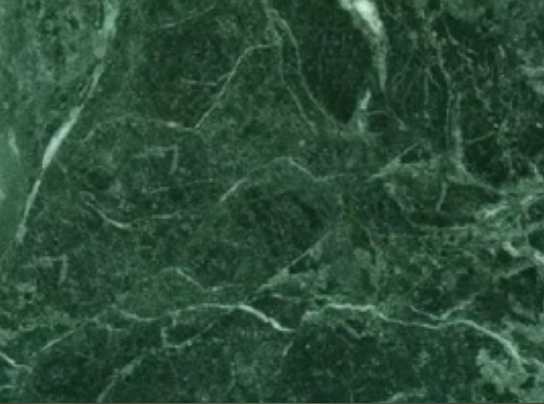
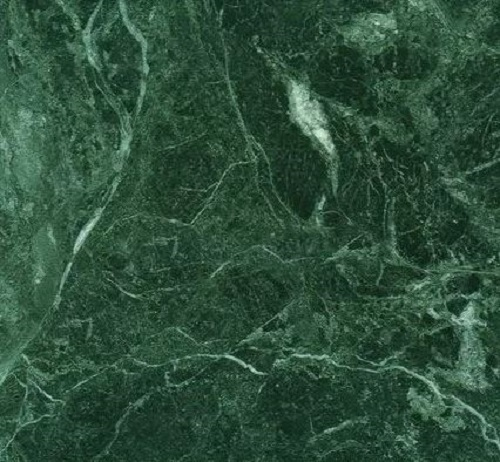
chore: more updates

diff --git a/src/app/components/Footer.tsx b/src/app/components/Footer.tsx
@@ -4,51 +4,54 @@ export function Footer() {
     return (
         <footer className="border-t border-border">
             <div className="max-w-7xl mx-auto px-6 py-12 grid grid-cols-1 md:grid-cols-3 gap-10">
-            <div className="flex flex-col items-center justify-center text-center">
-                <img src="/img/logo.png" alt="samo-enterprises" className="object-cover w-28 h-28" />
-                <p className="text-sm text-muted-foreground leading-relaxed mt-4">
-                Supplying premium natural stone to architects, designers, and homeowners since 2015.
-                </p>
-            </div>
-            <div>
-                <p className="text-xs tracking-widest uppercase text-muted-foreground mb-4" style={{ fontFamily: "'DM Mono', monospace" }}>
-                Collections
-                </p>
-                <ul className="space-y-2">
-                {["Granite", "Marble", "Tiles"].map(cat => (
-                    <li key={cat}>
-                    <Link
-                        to={`/${cat.toLowerCase()}`}
-                        className="text-sm text-foreground hover:text-accent transition-colors"
-                    >
-                        {cat}
+                <div className="flex flex-col items-center justify-center text-center">
+                    <Link to="/" className="flex flex-row items-center justify-between leading-none">
+                        <img src="/img/logo.png" alt="samo-enterprises" className="object-cover w-28 h-28 z-10" />
+                        <img src="/img/tagline.jpg" alt="tagline" className="h-6 -m-6" />
                     </Link>
-                    </li>
-                ))}
-                </ul>
-            </div>
-            <div>
-                <p className="text-xs tracking-widest uppercase text-muted-foreground mb-4" style={{ fontFamily: "'DM Mono', monospace" }}>
-                Contact
-                </p>
-                <address className="text-sm text-foreground not-italic space-y-1">
-                <p>SCO-35, Sagar Enclave</p>
-                <p>Transport Nagar, Jalandhar City, 144012</p>
-                <a href="mailto:contact@samoenterprises.com" className="mt-3 text-muted-foreground block">contact@samoenterprises.com</a>
-                <a href="mailto:info@samoenterprises.com" className="text-muted-foreground block">info@samoenterprises.com</a>
-                <a href="mailto:sales@samoenterprises.com" className="text-muted-foreground block">sales@samoenterprises.com</a>
-                <a href="mailto:samoenterprises3@gmail.com" className="text-muted-foreground block">samoenterprises3@gmail.com</a>
-                <a href="tel:+91 62399 40093" className="mt-3 text-muted-foreground block">+91 62399 40093</a>
-                <a href="tel:+91 62399 50093" className="text-muted-foreground block">+91 62399 50093</a>
-                </address>
-            </div>
+                    <p className="text-sm text-muted-foreground leading-relaxed mt-4">
+                    Supplying premium natural stone to architects, designers, and homeowners since 2015.
+                    </p>
+                </div>
+                <div>
+                    <p className="text-xs tracking-widest uppercase text-muted-foreground mb-4" style={{ fontFamily: "'DM Mono', monospace" }}>
+                    Collections
+                    </p>
+                    <ul className="space-y-2">
+                    {["Granite", "Marble", "Tiles"].map(cat => (
+                        <li key={cat}>
+                        <Link
+                            to={`/${cat.toLowerCase()}`}
+                            className="text-sm text-foreground hover:text-accent transition-colors"
+                        >
+                            {cat}
+                        </Link>
+                        </li>
+                    ))}
+                    </ul>
+                </div>
+                <div>
+                    <p className="text-xs tracking-widest uppercase text-muted-foreground mb-4" style={{ fontFamily: "'DM Mono', monospace" }}>
+                    Contact
+                    </p>
+                    <address className="text-sm text-foreground not-italic space-y-1">
+                    <p>SCO-35, Sagar Enclave</p>
+                    <p>Transport Nagar, Jalandhar City, 144012</p>
+                    <a href="mailto:contact@samoenterprises.com" className="mt-3 text-muted-foreground block">contact@samoenterprises.com</a>
+                    <a href="mailto:info@samoenterprises.com" className="text-muted-foreground block">info@samoenterprises.com</a>
+                    <a href="mailto:sales@samoenterprises.com" className="text-muted-foreground block">sales@samoenterprises.com</a>
+                    <a href="mailto:samoenterprises3@gmail.com" className="text-muted-foreground block">samoenterprises3@gmail.com</a>
+                    <a href="tel:+91 62399 40093" className="mt-3 text-muted-foreground block">+91 62399 40093</a>
+                    <a href="tel:+91 62399 50093" className="text-muted-foreground block">+91 62399 50093</a>
+                    </address>
+                </div>
             </div>
             <div className="border-t border-border">
-            <div className="max-w-7xl mx-auto px-6 py-4 flex justify-between items-center">
-                <p className="text-xs text-muted-foreground" style={{ fontFamily: "'DM Mono', monospace" }}>
-                © 2015 SAMO Enterprises. All rights reserved.
-                </p>
-            </div>
+                <div className="max-w-7xl mx-auto px-6 py-4 flex justify-between items-center">
+                    <p className="text-xs text-muted-foreground" style={{ fontFamily: "'DM Mono', monospace" }}>
+                    © 2015 SAMO Enterprises. All rights reserved.
+                    </p>
+                </div>
             </div>
         </footer>
     )

diff --git a/src/app/components/Header.tsx b/src/app/components/Header.tsx
@@ -27,14 +27,15 @@ export function Header() {
 
     return (
         <header className="border-b border-border sticky top-0 z-40 bg-background">
-            <div className="max-w-7xl mx-auto px-6 py-5 flex items-center justify-between">
+            <div className="max-w-7xl mx-auto flex items-center justify-between">
                 {/* Logo */}
-                <Link to="/" className="flex flex-col leading-none">
-                <img src="/img/logo.png" alt="samo-enterprises" className="object-cover w-24 h-24" />
+                <Link to="/" className="flex flex-row items-center leading-none">
+                    <img src="/img/logo.png" alt="samo-enterprises" className="object-cover w-28 h-28" />
+                    <img src="/img/tagline.jpg" alt="tagline" className="h-6 -m-6 -z-10" />
                 </Link>
 
                 {/* Desktop nav */}
-                <nav className="hidden md:flex items-center gap-8">
+                <nav className="hidden lg:flex items-center gap-8">
                 {NAV_LINKS.map(({ to, label }) => {
                     const active = location.pathname === to;
                     return (
@@ -57,7 +58,7 @@ export function Header() {
                 {/* Burger button */}
                 <button
                 onClick={() => setMenuOpen(prev => !prev)}
-                className="md:hidden p-2 -mr-2 text-foreground hover:text-accent transition-colors"
+                className="lg:hidden p-4 text-foreground hover:text-accent transition-colors"
                 aria-label={menuOpen ? "Close menu" : "Open menu"}
                 >
                 {menuOpen ? <X size={22} /> : <Menu size={22} />}
@@ -66,32 +67,35 @@ export function Header() {
 
             {/* Mobile drawer */}
             {menuOpen && (
-                <div className="md:hidden border-t border-border bg-background">
-                <nav className="max-w-7xl mx-auto px-6 py-6 flex flex-col gap-1">
-                    {NAV_LINKS.map(({ to, label }) => {
-                    const active = location.pathname === to;
-                    return (
-                        <Link
-                        key={to}
-                        to={to}
-                        className={`py-3 border-b border-border text-sm tracking-widest uppercase transition-colors duration-150 ${
-                            active ? "text-accent" : "text-foreground hover:text-accent"
-                        }`}
-                        style={{ fontFamily: "'Inter', sans-serif", letterSpacing: "0.14em" }}
-                        >
-                        {label}
-                        </Link>
-                    );
-                    })}
-                    <div className="pt-5 flex flex-col gap-2 text-xs text-muted-foreground" style={{ fontFamily: "'DM Mono', monospace" }}>
-                    <a href="mailto:contact@sampenterprises.com" className="text-xs tracking-widest uppercase text-muted-foreground" style={{ fontFamily: "'DM Mono', monospace" }}>
-                        contact@samoenterprises.com
-                    </a>
-                    <a href="tel:+91 62399 40093" className="text-xs tracking-widest uppercase text-muted-foreground" style={{ fontFamily: "'DM Mono', monospace" }}>
-                        +91 62399 40093
-                    </a>
-                    </div>
-                </nav>
+                <div className="lg:hidden border-t border-border bg-background">
+                    <nav className="max-w-7xl mx-auto px-6 py-6 flex flex-col gap-1">
+                        {NAV_LINKS.map(({ to, label }) => {
+                        const active = location.pathname === to;
+                        return (
+                            <Link
+                            key={to}
+                            to={to}
+                            className={`py-3 border-b border-border text-sm tracking-widest uppercase transition-colors duration-150 ${
+                                active ? "text-accent" : "text-foreground hover:text-accent"
+                            }`}
+                            style={{ fontFamily: "'Inter', sans-serif", letterSpacing: "0.14em" }}
+                            >
+                            {label}
+                            </Link>
+                        );
+                        })}
+                        <div className="pt-5 flex flex-col gap-2 text-xs text-muted-foreground" style={{ fontFamily: "'DM Mono', monospace" }}>
+                            <a href="mailto:contact@sampenterprises.com" className="text-xs tracking-widest uppercase text-muted-foreground" style={{ fontFamily: "'DM Mono', monospace" }}>
+                                contact@samoenterprises.com
+                            </a>
+                            <a href="tel:+91 62399 40093" className="text-xs tracking-widest uppercase text-muted-foreground" style={{ fontFamily: "'DM Mono', monospace" }}>
+                                +91 62399 40093
+                            </a>
+                            <a href="tel:+91 62399 50093" className="text-xs tracking-widest uppercase text-muted-foreground" style={{ fontFamily: "'DM Mono', monospace" }}>
+                                +91 62399 50093
+                            </a>
+                        </div>
+                    </nav>
                 </div>
             )}
         </header>

diff --git a/src/app/components/TopBar.tsx b/src/app/components/TopBar.tsx
@@ -2,12 +2,17 @@ export function TopBar() {
     return (
         <div className="border-b border-border hidden md:block">
             <div className="max-w-7xl mx-auto px-6 py-3 flex items-center justify-between">
-            <a href="mailto:contact@sampenterprises.com" className="text-xs tracking-widest uppercase text-muted-foreground" style={{ fontFamily: "'DM Mono', monospace" }}>
-                contact@samoenterprises.com
-            </a>
-            <a href="tel:+91 62399 40093" className="text-xs tracking-widest uppercase text-muted-foreground" style={{ fontFamily: "'DM Mono', monospace" }}>
-                +91 62399 40093
-            </a>
+                <a href="mailto:contact@sampenterprises.com" className="text-xs tracking-widest uppercase text-muted-foreground" style={{ fontFamily: "'DM Mono', monospace" }}>
+                    contact@samoenterprises.com
+                </a>
+                <div>
+                    <a href="tel:+91 62399 40093" className="text-xs tracking-widest uppercase text-muted-foreground mr-8" style={{ fontFamily: "'DM Mono', monospace" }}>
+                        +91 62399 40093
+                    </a>
+                    <a href="tel:+91 62399 50093" className="text-xs tracking-widest uppercase text-muted-foreground" style={{ fontFamily: "'DM Mono', monospace" }}>
+                        +91 62399 50093
+                    </a>
+                </div>
             </div>
         </div>
     )

diff --git a/src/app/components/Stats.tsx b/src/app/components/Stats.tsx
@@ -3,7 +3,7 @@ export function Stats() {
         { label: "Years of expertise", value: "11" },
         { label: "Stone varieties", value: "78+" },
         { label: "Countries sourced", value: "14" },
-        { label: "Projects completed", value: "3,200+" },
+        { label: "Projects completed", value: "200+" },
     ];
     
     return (
